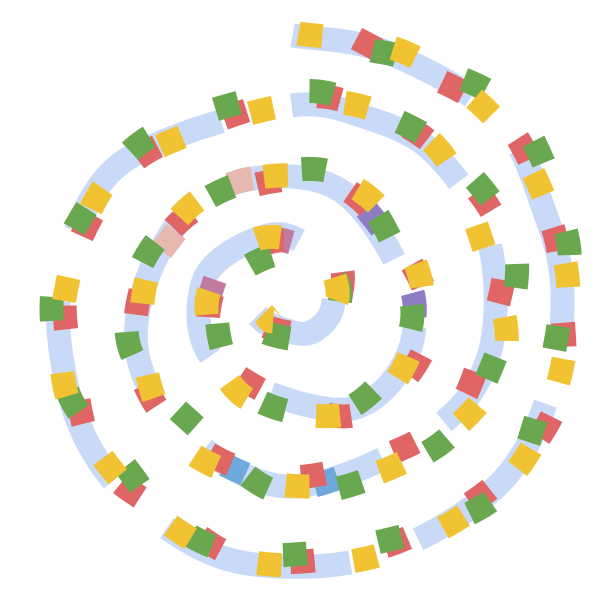
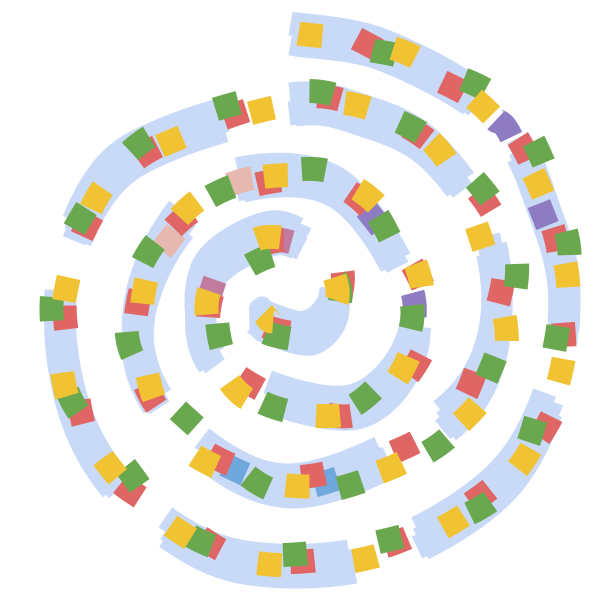
update values photos

diff --git a/leadership.md b/leadership.md
@@ -5,8 +5,10 @@ permalink: /leadership/
 ---
 
 I really value engaging with the community, to create communities via clubs, raise the next generations of leaders, and help others achieve their goals.
+
+### Core Values
+Core values are the guiding principles I use, both as a leader, researcher, and in my day-to-day life.
 <section class="core-values" aria-labelledby="core-values-title">
-  <h2 id="core-vaclues-title">Core Values</h2>
   <div class="core-values__grid">
     <button
       class="core-value-card"
@@ -53,8 +55,11 @@ I really value engaging with the community, to create communities via clubs, rai
   <p id="core-value-dialog-description"></p>
 </dialog>
 
+
+### Experience 
+I put effort into helping the community in small and large ways.
+
 <section class="leadership-experience" aria-labelledby="leadership-experience-title">
-<h2 id="leadership-experience-title">Experience</h2>
 <div class="gallery-wrapper">
 <div class="card-gallery card-gallery--stacked">
   {% for item in site.data.leadership %}
